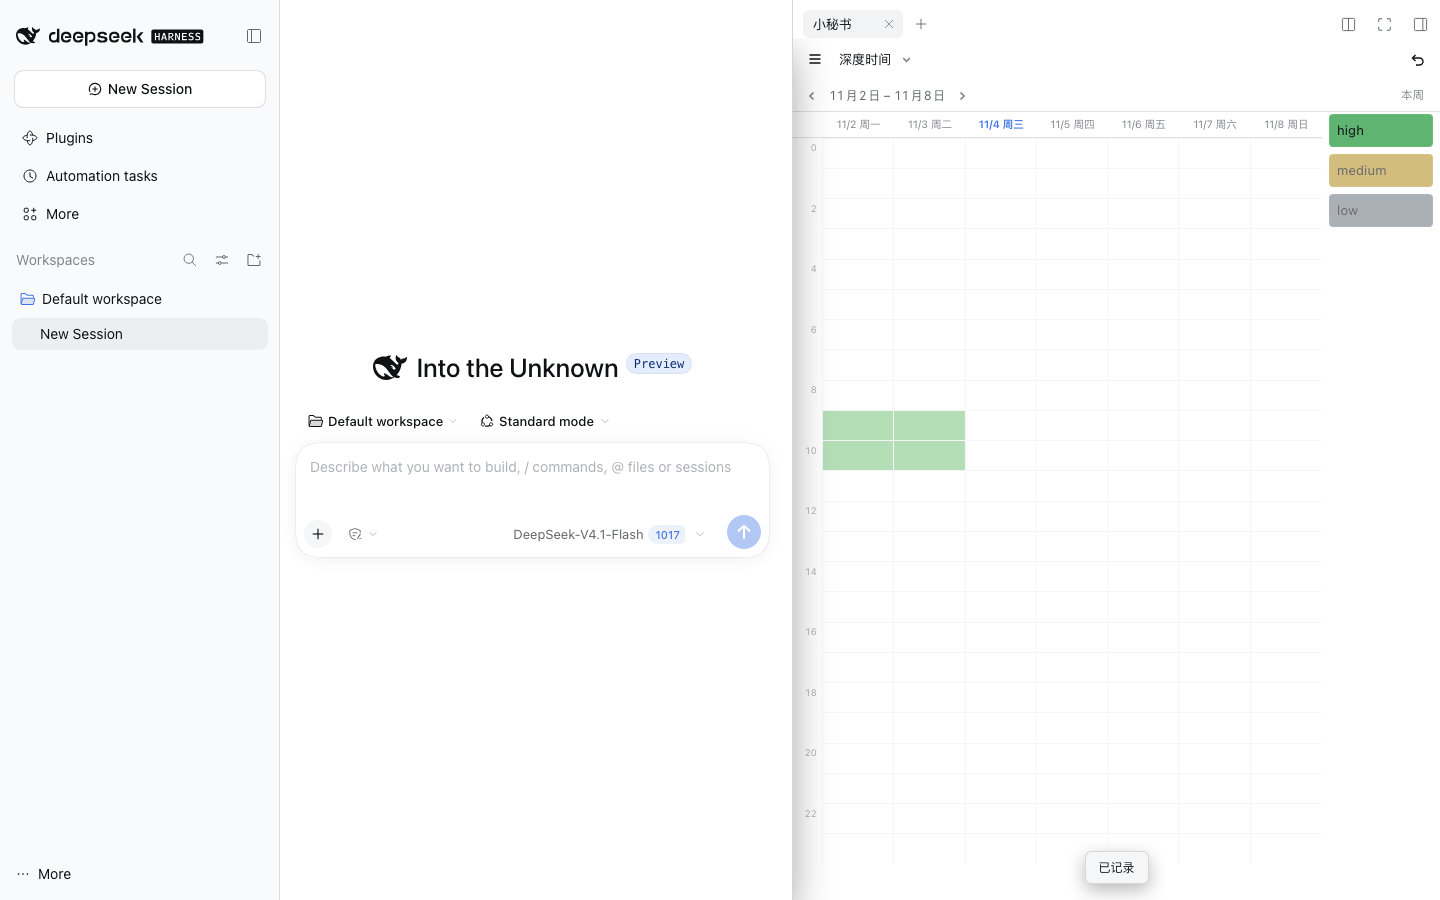
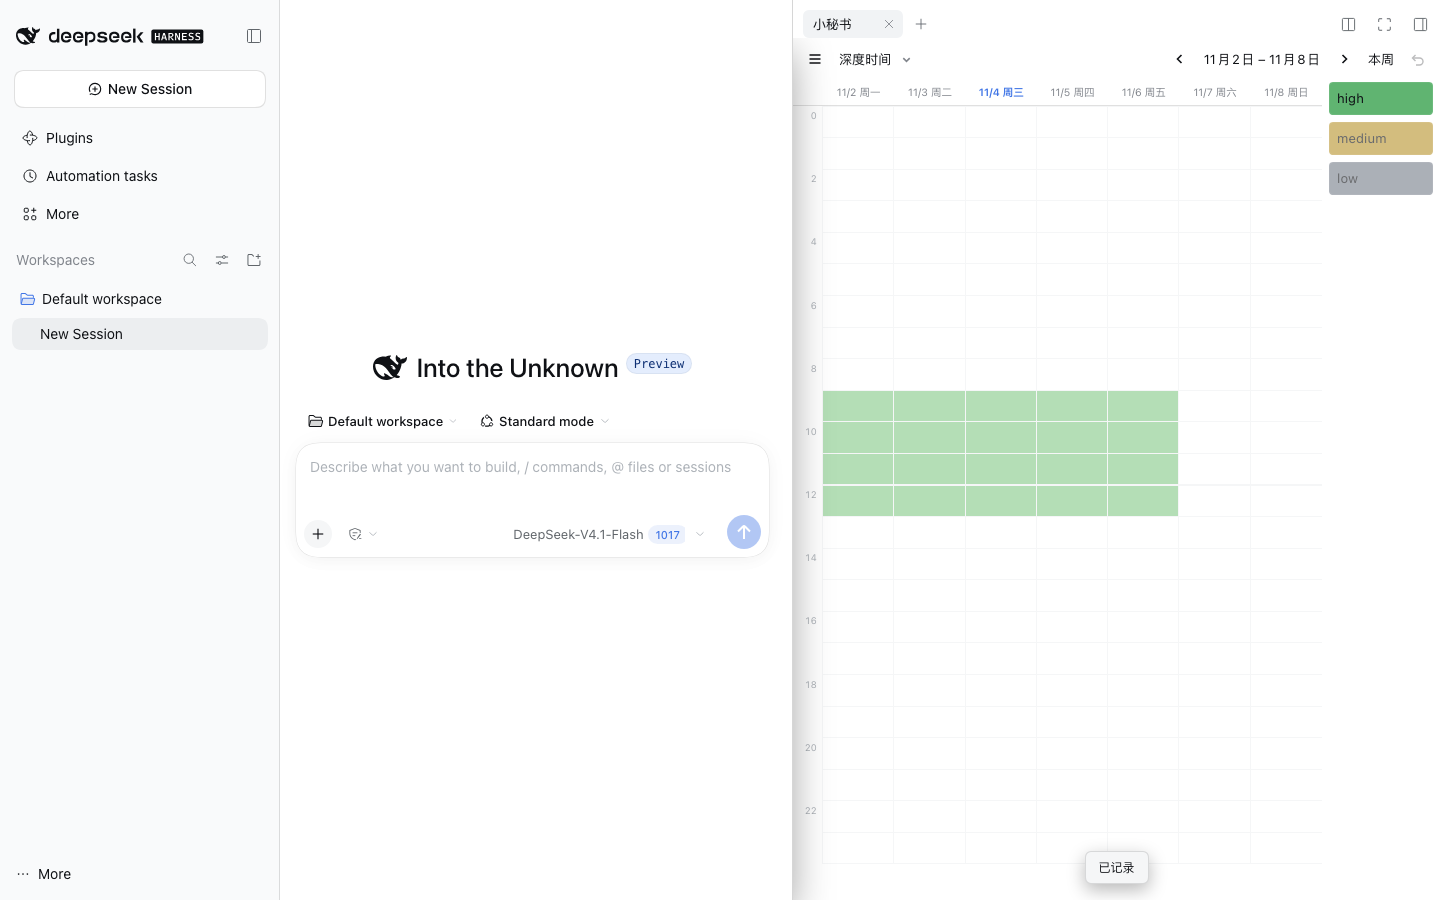
feat(deep): move the week switcher into the header and make it clickable
深度时间 had a second row under the header whose date range looked like a
control but was not one, and the only way to change weeks was the two tiny
arrows beside it. The row is gone: the header now carries the whole control
on the right, `‹ 11月2日 – 11月8日 › 本周`, where the label itself opens the
date picker — pick any day and land on that day's week. The header also stops
showing the 时间块 day field while 深度时间 is open.

Changed region(s): [[0.5625, 0.4356, 0.8438, 0.5911], [0.5625, 0.0622, 1.0, 0.28]]

diff --git a/packages/panel/src/client/Shell.tsx b/packages/panel/src/client/Shell.tsx
@@ -41,6 +41,13 @@ const PLACEHOLDERS: Partial<Record<Module, { title: string; body: string }>> = {
   settings: { title: '设置', body: '这里将来放默认时区、每格时长和主题。' },
 }
 
+/** `11月2日 – 11月8日` for one week starting on `weekStart`. */
+function weekLabel(weekStart: string): string {
+  const start = new Date(`${weekStart}T12:00:00`)
+  const end = new Date(`${addDays(weekStart, 6)}T12:00:00`)
+  return `${start.getMonth() + 1}月${start.getDate()}日 – ${end.getMonth() + 1}月${end.getDate()}日`
+}
+
 function timeZoneOf(): string {
   return Intl.DateTimeFormat().resolvedOptions().timeZone || 'Asia/Shanghai'
 }
@@ -65,6 +72,7 @@ export function SecretaryProduct() {
   const [error, setError] = useState('')
   const toastTimer = useRef<number>(0)
   const titleRef = useRef<HTMLButtonElement | null>(null)
+  const weekInput = useRef<HTMLInputElement | null>(null)
   const shellRef = useRef<HTMLDivElement | null>(null)
 
   const say = useCallback((message: string) => {
@@ -185,6 +193,14 @@ export function SecretaryProduct() {
     if (ok) { setSheet(undefined); say('已删除') }
   }, [run, say])
 
+  /** Pick any day and land on that week; the native picker keeps the calendar familiar. */
+  const openWeekPicker = () => {
+    const element = weekInput.current
+    if (element === null) return
+    if (typeof element.showPicker === 'function') element.showPicker()
+    else element.click()
+  }
+
   const titleSub = module === 'time' ? (timeView === 'plan' ? '计划' : '实录') : ''
   const warnings: PanelWarning[] = state?.warnings ?? []
 
@@ -210,12 +226,36 @@ export function SecretaryProduct() {
           <svg viewBox="0 0 12 12" fill="none" stroke="currentColor" strokeWidth="1.7"><path d="M2.5 4.5L6 8l3.5-3.5" /></svg>
         </button>
         <span className="grow" />
+        {module === 'time' && (
+          <input
+            className="sec-date"
+            type="date"
+            aria-label="跳到某一天"
+            value={topDate}
+            onChange={event => { if (event.target.value !== '') jumpTo(event.target.value) }}
+          />
+        )}
+        {module === 'deep' && (
+          <>
+            <button className="sec-hbtn" type="button" title="上一周" aria-label="上一周" onClick={() => setWeekStart(addDays(weekStart, -7))}>
+              <svg viewBox="0 0 16 16" fill="none" stroke="currentColor" strokeWidth="1.6"><path d="M9.5 4L5.5 8l4 4" /></svg>
+            </button>
+            <button className="sec-week" type="button" aria-label="跳到某一周" onClick={() => openWeekPicker()}>
+              {weekLabel(weekStart)}
+            </button>
+            <button className="sec-hbtn" type="button" title="下一周" aria-label="下一周" onClick={() => setWeekStart(addDays(weekStart, 7))}>
+              <svg viewBox="0 0 16 16" fill="none" stroke="currentColor" strokeWidth="1.6"><path d="M6.5 4l4 4-4 4" /></svg>
+            </button>
+            <button className="sec-week-now" type="button" onClick={() => setWeekStart(weekStartOf(localDate()))}>本周</button>
+          </>
+        )}
         <input
-          className="sec-date"
+          ref={weekInput}
+          className="sec-week-input"
           type="date"
-          aria-label="跳到某一天"
-          value={topDate}
-          onChange={event => { if (event.target.value !== '') jumpTo(event.target.value) }}
+          aria-label="按日期选周"
+          value={weekStart}
+          onChange={event => { if (event.target.value !== '') setWeekStart(weekStartOf(event.target.value)) }}
         />
         <button className="sec-hbtn" type="button" title="撤销" disabled={undoStack.length === 0 || busy} onClick={() => void undo()}>
           <svg viewBox="0 0 16 16" fill="none" stroke="currentColor" strokeWidth="1.4"><path d="M3 7h6.5a3.5 3.5 0 010 7H6" /><path d="M5.5 4L2.5 7l3 3" /></svg>
@@ -269,7 +309,6 @@ export function SecretaryProduct() {
             weekStart={weekStart}
             today={state?.today ?? localDate()}
             busy={busy}
-            onWeekChange={setWeekStart}
             onPaint={(rects, level) => void paintDeep(rects, level)}
           />}
         </section>

diff --git a/packages/panel/src/client/DeepWeekView.tsx b/packages/panel/src/client/DeepWeekView.tsx
@@ -7,7 +7,6 @@ interface Props {
   readonly weekStart: string
   readonly today: string
   readonly busy: boolean
-  readonly onWeekChange: (weekStart: string) => void
   readonly onPaint: (rects: readonly DeepRect[], level: DeepLevel | null) => void
 }
 
@@ -59,7 +58,7 @@ function rectsOf(selection: ReadonlySet<string>): DeepRect[] {
 }
 
 /** The 深度时间 week grid: seven days by twenty-four hours, painted by level. */
-export function DeepWeekView({ week, weekStart, today, busy, onWeekChange, onPaint }: Props) {
+export function DeepWeekView({ week, weekStart, today, busy, onPaint }: Props) {
   const bodyRef = useRef<HTMLDivElement | null>(null)
   const dragRef = useRef<{ key: string; moved: boolean; wasSelected: boolean } | null>(null)
   const selectionRef = useRef<Set<string>>(new Set())
@@ -164,16 +163,6 @@ export function DeepWeekView({ week, weekStart, today, busy, onWeekChange, onPai
 
   return (
     <>
-      <div className="sec-weekbar">
-        <button className="wk" type="button" aria-label="上一周" onClick={() => onWeekChange(addDays(weekStart, -7))}>
-          <svg viewBox="0 0 12 12" fill="none" stroke="currentColor" strokeWidth="1.7"><path d="M7.5 2.5L4 6l3.5 3.5" /></svg>
-        </button>
-        <span className="range">{rangeLabel}</span>
-        <button className="wk" type="button" aria-label="下一周" onClick={() => onWeekChange(addDays(weekStart, 7))}>
-          <svg viewBox="0 0 12 12" fill="none" stroke="currentColor" strokeWidth="1.7"><path d="M4.5 2.5L8 6l-3.5 3.5" /></svg>
-        </button>
-        <button className="now" type="button" onClick={() => onWeekChange(weekStartOf(today))}>本周</button>
-      </div>
       <div className="sec-deep">
         <div className="sec-deep-main">
           <div className="sec-deep-head">

diff --git a/packages/panel/src/client/productStyles.ts b/packages/panel/src/client/productStyles.ts
@@ -206,13 +206,12 @@ export const productStyles = `.sec-shell {
 .sec-placeholder .ph-d { font-size: 12px; color: var(--txt-4); line-height: 1.7; max-width: 250px; }
 
 /* ---------- 深度时间 ---------- */
-.sec-weekbar { flex: none; height: 32px; display: flex; align-items: center; gap: 6px; padding: 0 8px; border-bottom: 1px solid var(--line-2); }
-.sec-weekbar .wk { width: 22px; height: 22px; border-radius: 5px; color: var(--txt-3); display: grid; place-items: center; padding: 0; }
-.sec-weekbar .wk:hover { background: var(--rail-3); color: var(--txt); }
-.sec-weekbar .wk svg { width: 12px; height: 12px; }
-.sec-weekbar .range { font-size: 12px; color: var(--txt-2); font-variant-numeric: tabular-nums; }
-.sec-weekbar .now { height: 22px; border-radius: 5px; color: var(--txt-3); font-size: 11.5px; padding: 0 8px; margin-left: auto; }
-.sec-weekbar .now:hover { background: var(--rail-3); color: var(--txt); }
+.sec-week { height: 24px; padding: 0 8px; border-radius: 6px; color: var(--txt-2); font-size: 12px;
+  font-variant-numeric: tabular-nums; }
+.sec-week:hover { background: var(--rail-3); color: var(--txt); }
+.sec-week-now { height: 24px; padding: 0 8px; border-radius: 6px; color: var(--txt-3); font-size: 11.5px; }
+.sec-week-now:hover { background: var(--rail-3); color: var(--txt); }
+.sec-week-input { position: absolute; width: 1px; height: 1px; opacity: 0; pointer-events: none; border: 0; padding: 0; }
 .sec-deep { flex: 1; min-height: 0; display: flex; }
 .sec-deep-main { flex: 1; min-width: 0; display: flex; flex-direction: column; min-height: 0; }
 .sec-deep-head { flex: none; height: 26px; display: flex; padding-left: 30px; border-bottom: 1px solid var(--line-2); }

diff --git a/packages/panel/README.md b/packages/panel/README.md
@@ -5,7 +5,7 @@
 - 一级模块走 ☰ 抽屉：时间块 / 深度时间 / 事项 / 目标 / 标签 / 设置；标题永远显示 `模块 · 子模块`，二级（实录 / 计划）在标题下拉里。
 - **时间块**：一格 10 分钟，一屏正好一天。日期是连续列表：打开时铺今天前 3 天到后 10 天，滚到任一端就再接过一周（最多同时 63 天，超出从另一端裁掉），视线按「顶部那一天」锚定，扩展不会把画面顶走。标题栏右侧的日期同时是「你在哪天」和跳转入口——点开日历选任意一天，画布会以那天为锚重铺并滚过去；滚离今天后右下角出现「回到今天」。全是方格、无圆角、无并行记录；每个格子都带自己的标签名（有备注用备注）。交互固定为「先在格子上选，再点右侧类别」：拖选＝重新拉一段，单击已选格＝取消该格，`不选`／`Esc`／点空白清空，`橡皮`／`Delete`／`Backspace` 擦除。底栏只在有选中时可见，整段选中一条记录时显示类别与「备注」。
 - **实录** 与 **计划** 是两张同构画布、不同图层（`actual_blocks` / `plan_blocks`），互不影响；标题下的撤销只覆盖上色/擦除，撤销用当日快照整段回写。
-- **深度时间**：7×24 周网格（小时格），按周存储。没画过的周继承最近一个更早的周，再没有就用 `base` 种子；写入只落在本周（`week:<周一>`）。右侧三档 high / medium / low 是画笔，拖矩形选中后点档位上色，橡皮擦回 unset。
+- **深度时间**：7×24 周网格（小时格），按周存储；周切换全部在标题栏右上角——`‹ 11月2日 – 11月8日 ›`，中间那段是可点的，点开选任意一天就落到那一天所在周，右边是「本周」。没画过的周继承最近一个更早的周，再没有就用 `base` 种子；写入只落在本周（`week:<周一>`）。右侧三档 high / medium / low 是画笔，拖矩形选中后点档位上色，橡皮擦回 unset。
 - 时间标签架读 `TagService` 的时间标签树：一级标签可展开子标签，点标签＝给当前选区上色；收起后只显示色块。
 - 底色、边框、文字全部来自宿主 token（`--dsw-alias-*`），明暗主题跟随 DSH，不定义自己的调色板。
 
